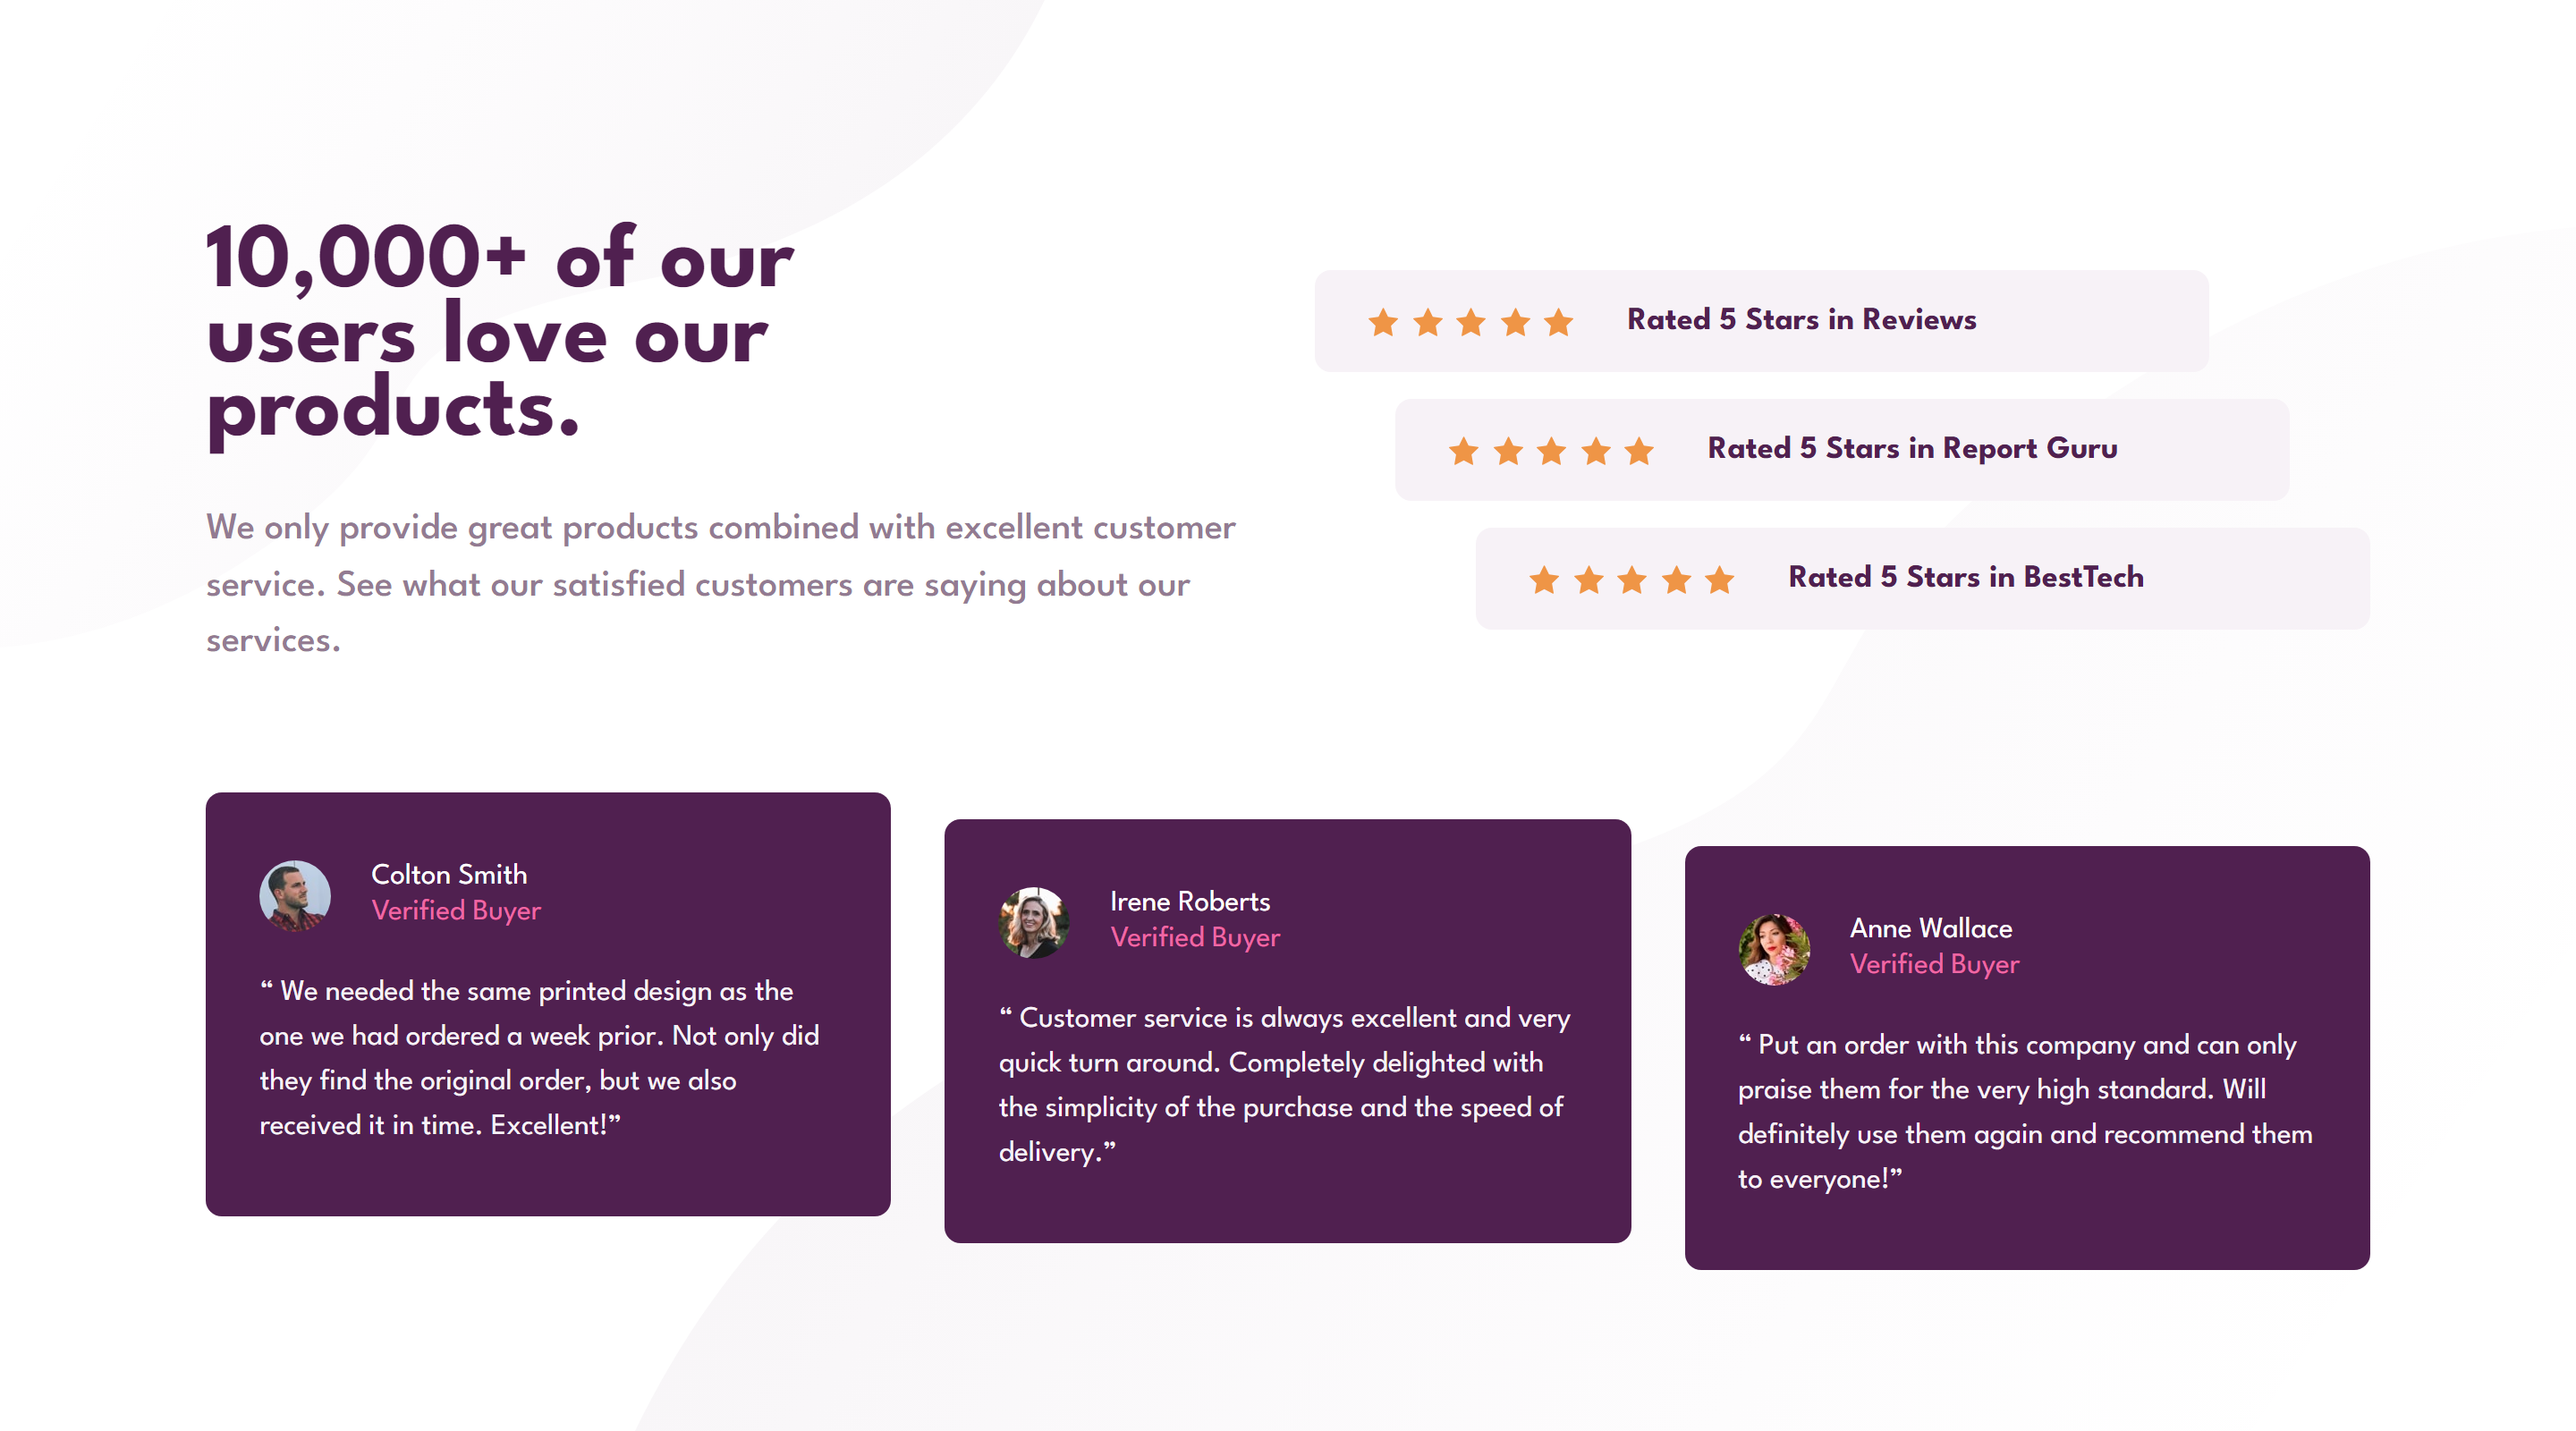
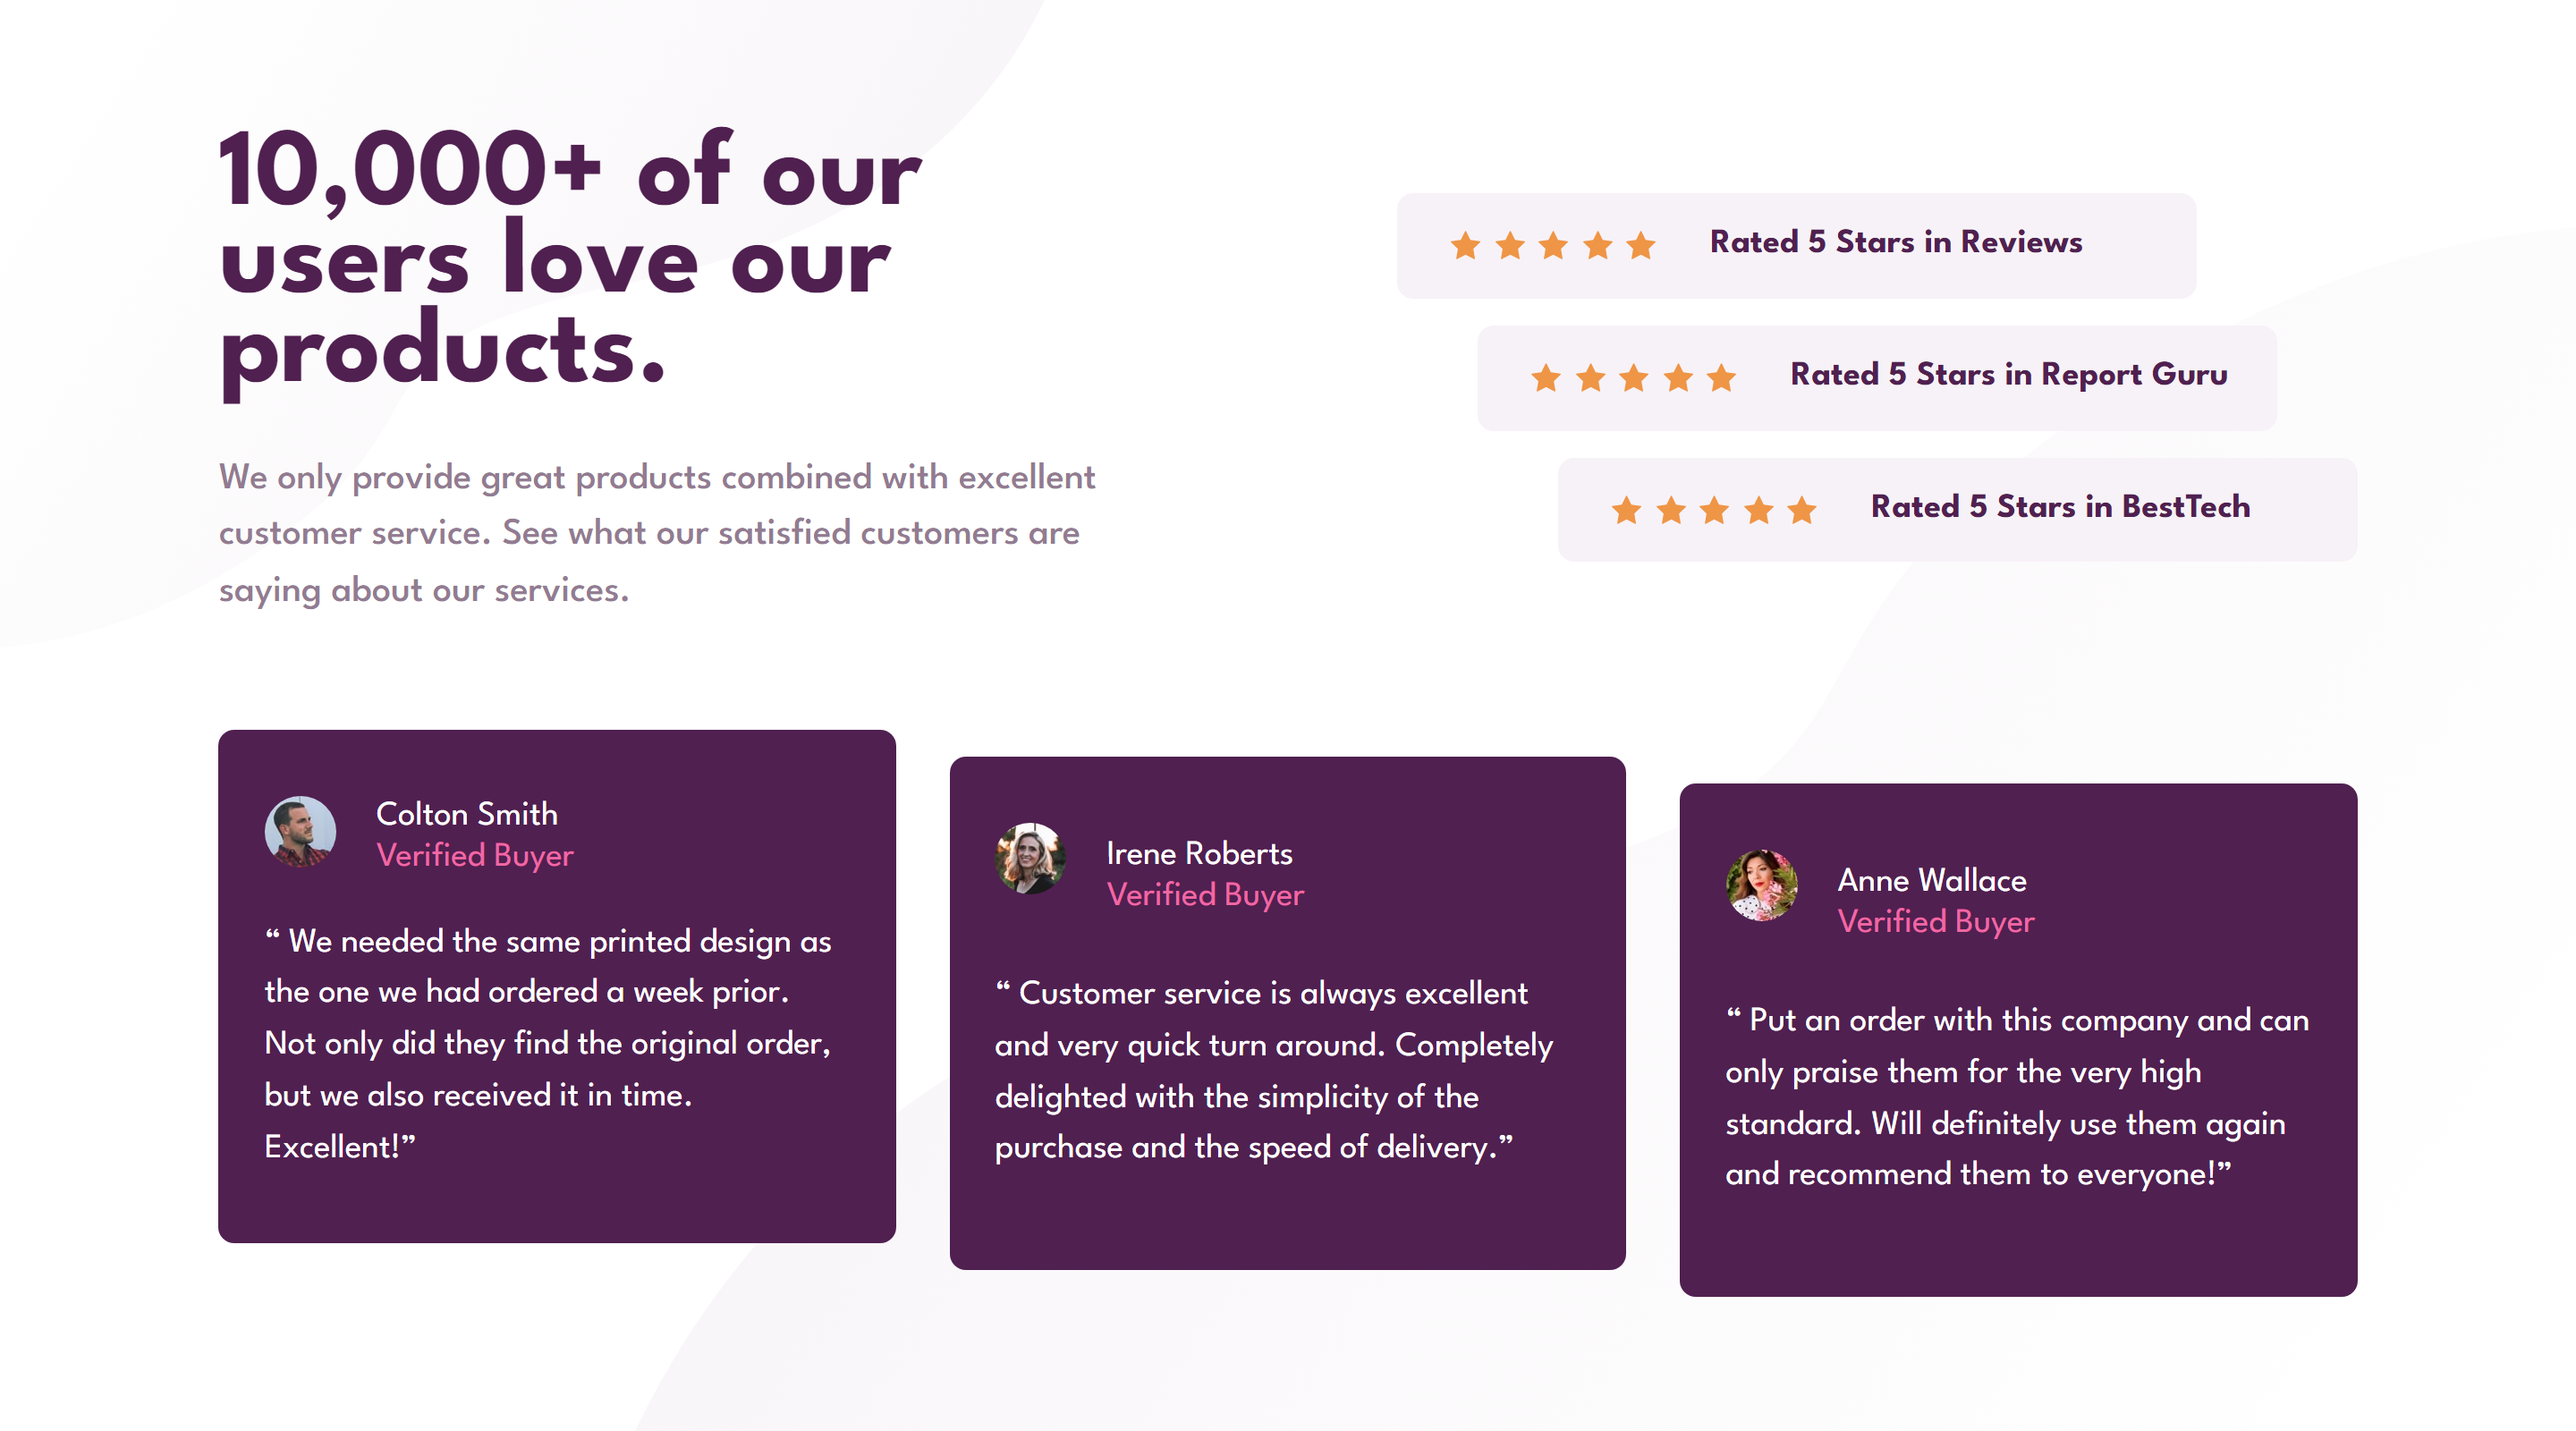
update screenshots

diff --git a/styles.css b/styles.css
@@ -52,6 +52,8 @@ h6 {
     --white: hsl(0, 0%, 100%);
 
     /* Spacing and others */
+    --spacing-block: 22vw;
+    --spacing-inline: 7.5vw;
     --radius: 0.6rem;
 }
 
@@ -85,7 +87,7 @@ body {
     background-image: url("./images/bg-pattern-top-mobile.svg"), url("./images/bg-pattern-bottom-mobile.svg");
     background-repeat: no-repeat;
     background-position: top, bottom;
-    margin: 22vw 6vw;
+    margin: var(--spacing-block) var(--spacing-inline);
 }
 
 main {
@@ -202,9 +204,10 @@ h3 {
 
 @media (min-width: 1200px) {
     body {
+        --spacing-block: 0;
+        --spacing-inline: 6vw;
         background-image: url("./images/bg-pattern-top-desktop.svg"), url("./images/bg-pattern-bottom-desktop.svg");
         background-position: top left, bottom right;    
-        margin-block: 0;
     }
     main {
         grid-template-columns: 1fr 8.5vw 1fr;
@@ -250,4 +253,20 @@ h3 {
         grid-row: 3 / 6;
     }
 }
+
+@media (min-width: 1400px) {
+    body {
+        --spacing-inline: 8.5vw;
+    }
+    h3 {
+        font-size: 1.28rem;
+    }
+}
+
+@media (max-height: 799px) and (min-width: 1200px) {
+    body {
+        --spacing-block: 20vh;
+    }
+}
+
 
